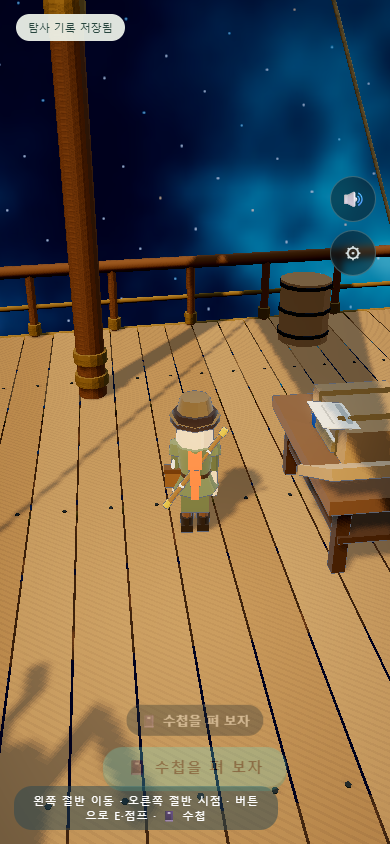
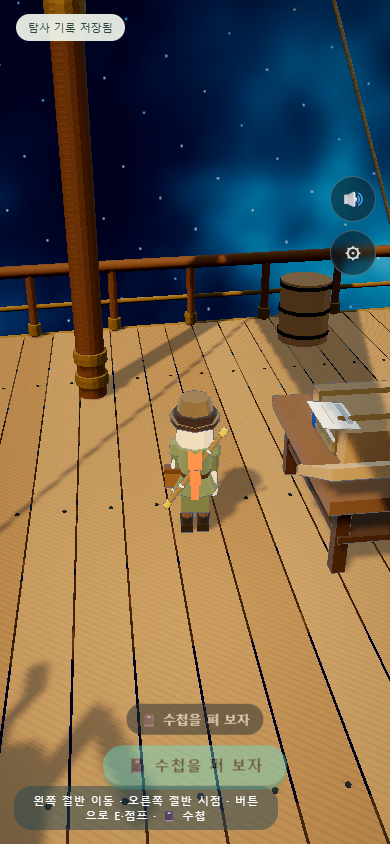
Add animated navigation beam from starsail to planet

Changed region(s): [[0.2769, 0.8318, 0.6769, 0.9242], [0.7077, 0.8934, 0.7385, 0.9242]]

diff --git a/src/world/StarRoute.js b/src/world/StarRoute.js
@@ -1,0 +1,37 @@
+import * as THREE from 'three';
+
+// 항해 고리에서 행성의 가까운 표면까지 이어지는 빛. 진행 저장과 충돌에는 참여하지 않는다.
+export function buildStarRoute(scene,gimbal,planet) {
+  const root=new THREE.Group();root.name='행성으로 향하는 항로의 빛';scene.add(root);
+  const start=gimbal.position.clone(),direction=planet.position.clone().sub(start).normalize();
+  const end=planet.position.clone().addScaledVector(direction,-9.4),length=start.distanceTo(end);
+  const uniforms={time:{value:0},strength:{value:.18},head:{value:1},motion:{value:1}};
+  const makeBeam=(radius,alpha)=>{
+    const mat=new THREE.ShaderMaterial({transparent:true,depthWrite:false,blending:THREE.AdditiveBlending,
+      uniforms:{...uniforms,alpha:{value:alpha}},
+      vertexShader:`varying float along;void main(){along=uv.y;gl_Position=projectionMatrix*modelViewMatrix*vec4(position,1.);}`,
+      fragmentShader:`varying float along;uniform float time,strength,head,motion,alpha;
+      void main(){float packet=pow(max(0.,sin((along*7.-time*.8)*6.283185)),14.)*motion;
+      float leading=1.-smoothstep(head-.025,head+.005,along);
+      float brightness=(.36+packet*.64)*strength*leading;
+      gl_FragColor=vec4(mix(vec3(.15,.75,1.),vec3(.8,1.,.95),packet),brightness*alpha);}`});
+    mat.userData.outlineParameters={visible:false};
+    const beam=new THREE.Mesh(new THREE.CylinderGeometry(radius,radius,1,10,1,true),mat);
+    beam.position.copy(start).lerp(end,.5);beam.quaternion.setFromUnitVectors(new THREE.Vector3(0,1,0),direction);beam.scale.y=length;
+    beam.userData.sky=true;beam.userData.cameraNonSolid=true;root.add(beam);return beam;
+  };
+  makeBeam(.055,1);makeBeam(.2,.23);makeBeam(.46,.07);
+  const canvas=document.createElement('canvas');canvas.width=canvas.height=64;const ctx=canvas.getContext('2d');
+  const grad=ctx.createRadialGradient(32,32,0,32,32,32);grad.addColorStop(0,'white');grad.addColorStop(.14,'#c0ffff');grad.addColorStop(.4,'rgba(65,210,255,.5)');grad.addColorStop(1,'rgba(50,180,255,0)');ctx.fillStyle=grad;ctx.fillRect(0,0,64,64);
+  const map=new THREE.CanvasTexture(canvas),glows=[];
+  for(const [point,size] of [[start,1.7],[end,3.4]]){const sprite=new THREE.Sprite(new THREE.SpriteMaterial({map,color:0x8cefff,transparent:true,depthWrite:false,blending:THREE.AdditiveBlending}));sprite.position.copy(point);sprite.scale.setScalar(size);sprite.userData.sky=true;root.add(sprite);glows.push(sprite);}
+  const reduced=matchMedia('(prefers-reduced-motion: reduce)');let wasOpen=false,reveal=1;
+  const update=(dt,open)=>{
+    if(open&&!wasOpen)reveal=reduced.matches?1:0;
+    wasOpen=open;reveal=Math.min(1,reveal+dt/1.6);
+    uniforms.time.value+=dt;uniforms.motion.value=reduced.matches?0:1;
+    uniforms.strength.value=open?1:.24;uniforms.head.value=open?reveal:1;
+    glows[0].material.opacity=open?.8:.22;glows[1].material.opacity=open?reveal*.8:.15;
+  };
+  update(0,false);return {root,start,end,uniforms,update};
+}

diff --git a/src/world/Starsail.js b/src/world/Starsail.js
@@ -3,6 +3,7 @@ import { GLTFLoader } from 'three/addons/loaders/GLTFLoader.js';
 import { STARSAIL as D } from '../data/starsail.js';
 import { STARSAIL_PALETTE as C } from '../data/lighting.js';
 import { buildSpaceVista } from './SpaceVista.js';
+import { buildStarRoute } from './StarRoute.js';
 
 // 기존 lab 저장 키와 숫자 퍼즐. 공간·소포 회수만 새 범선 계약으로 감싼다.
 export async function installStarsail(lab) {
@@ -35,6 +36,7 @@ export async function installStarsail(lab) {
   sun.shadow.bias = -.0006; scene.add(sun);
   const fill = new THREE.DirectionalLight(C.ambient, .8); fill.position.set(-10,8,-15); scene.add(fill);
   const vista=buildSpaceVista(scene),{sky,planet}=vista;
+  const route=buildStarRoute(scene,v.gimbal,planet);
   const halfWidth=z=>{
     for(let i=1;i<D.profile.length;i++){const[a,wa]=D.profile[i-1],[b,wb]=D.profile[i];if(z<=b)return wa+(wb-wa)*(z-a)/(b-a);}
     return D.profile.at(-1)[1];
@@ -79,7 +81,7 @@ export async function installStarsail(lab) {
     if(!original.restore(s))return false;
     recovered=s.parcelRecovered??true;recovering=0;sync();return true;
   };
-  lab.update=dt=>{original.update(dt);vista.update(dt);time+=dt;recovering=Math.max(0,recovering-dt);sync();};
+  lab.update=dt=>{original.update(dt);vista.update(dt);route.update(dt,lab.state.open);time+=dt;recovering=Math.max(0,recovering-dt);sync();};
   lab.prompt=p=>{
     if(!recovered)return nearWinch(p)?'E — 소포 건져 올리기':'배 밖에 소포가 떠 있다 — 우현 회수 손잡이로';
     if(recovering)return '소포가 갑판으로 올라온다';
@@ -95,6 +97,6 @@ export async function installStarsail(lab) {
     return original.interact(p);
   };
   lab.reachables.push({name:'회수 손잡이',x:D.winch.x,z:D.winch.z,r:D.winch.reach});
-  lab.starsail={model:asset.scene,planet,sky,get recovered(){return recovered;},get recovering(){return recovering;}};
+  lab.starsail={model:asset.scene,planet,sky,route,get recovered(){return recovered;},get recovering(){return recovering;}};
   sync();return lab;
 }

diff --git a/reports/2026-09-09/STAR_ROUTE.md b/reports/2026-09-09/STAR_ROUTE.md
@@ -1,0 +1,11 @@
+# 행성으로 뻗는 항로의 빛
+
+항해 고리 중심과 먼 행성의 가까운 표면을 푸른 빛으로 연결했다. 항로를 맞추기 전에는 희미한 길이 보이고, 맞추면 1.6초에 걸쳐 밝은 빛이 행성으로 뻗는다. 이후 밝은 마디들이 같은 방향으로 흐른다. 고리 중심과 행성 도착점에는 부드러운 빛 번짐을 넣었다.
+
+기존 항로 열림 상태를 읽으며 별도의 저장 상태는 추가하지 않는다. 수첩·배 관찰 중에는 기존 게임 정지 규칙을 따른다. 운영체제의 동작 줄이기 설정에서는 빛이 즉시 연결되고 흐르는 마디를 숨긴다. 효과는 충돌과 그림자를 만들지 않는다.
+
+![실제 적용 화면](evidence/star-route/route.png)
+
+검증: 범선 검사 12개와 A~X, 소스 117개 모듈·297개 로컬 import·vendor 해시 19개 통과. `tools/check-star-route.cjs`에서 빛의 전개 순서·행성 표면 도착점·동작 줄이기·셰이더 렌더링을 검사한다. 검사 환경의 외부 네트워크 차단 오류는 그래픽 오류와 구분하여 제외한다.
+
+이번 변경은 로컬 적용이다.
